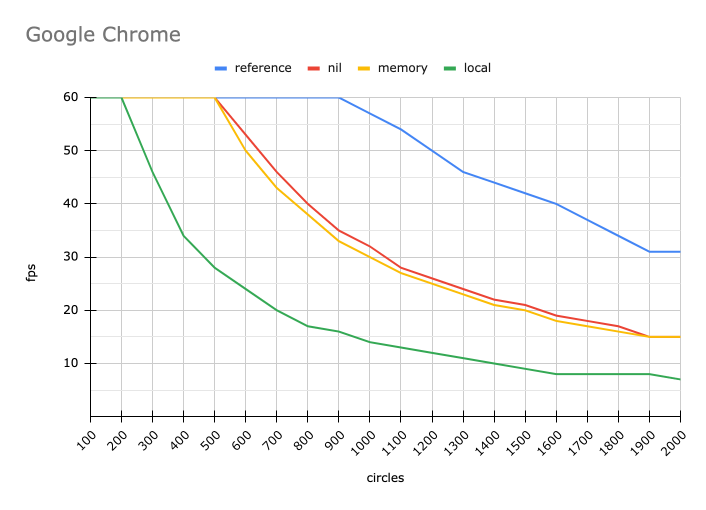
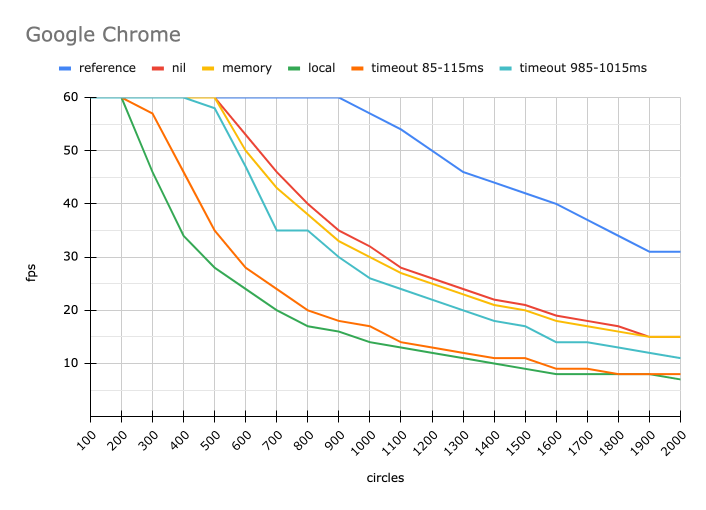
Add tests with timeout

diff --git a/src/model.ts b/src/model.ts
@@ -14,12 +14,14 @@ const NIL = /1|yes|true/i.test(import.meta.env.VITE_NIL);
 const MEMORY = /1|yes|true/i.test(import.meta.env.VITE_MEMORY);
 const LOCAL = /1|yes|true/i.test(import.meta.env.VITE_LOCAL);
 const SYNC = LOCAL && !/0|no|false/i.test(import.meta.env.VITE_SYNC);
+const TIMEOUT = (LOCAL && parseInt(import.meta.env.VITE_TIMEOUT)) || undefined;
 
 console.log(
   "🧳 mode:",
   NIL ? "nil" : MEMORY ? "memory" : LOCAL ? "local" : "reference"
 );
-if (LOCAL) console.log("⏱ sync:", SYNC);
+if (LOCAL) console.log("🔄 sync:", SYNC);
+if (LOCAL) console.log("⏱ timeout:", TIMEOUT);
 
 export type Dot = {
   x: number;
@@ -55,7 +57,11 @@ const generate = createEffect<
 
     // use `nil` adapter
     if (NIL) {
-      persist({ store: dot, key: `dot-${i}`, adapter: nil("nil") });
+      persist({
+        store: dot,
+        key: `dot-${i}`,
+        adapter: nil({ keyArea: "nil" }),
+      });
     }
 
     // use `memory` adapter
@@ -65,7 +71,12 @@ const generate = createEffect<
 
     // use `local` adapter
     else if (LOCAL) {
-      persistLocal({ store: dot, key: `dot-${i}`, sync: SYNC });
+      persistLocal({
+        store: dot,
+        key: `dot-${i}`,
+        sync: SYNC,
+        timeout: TIMEOUT ? TIMEOUT + Math.random() * 30 - 15 : undefined,
+      });
     }
   }
 });

diff --git a/README.md b/README.md
@@ -49,6 +49,20 @@ You can also run page with using `persist` with `local` adapter without syncroni
 pnpm local-nosync
 ```
 
+_(This feature of `effector-storage` is not released yet)_<br>
+Run page with using `persist` with `local` adapter with `timeout` (each circle's store state is persisted asynchronously in the `localStorage` with random timeout within 85-115ms):
+
+```
+pnpm local-timeout
+```
+
+_(This feature of `effector-storage` is not released yet)_<br>
+Or with random timeout within 985-1015ms:
+
+```
+pnpm local-big-timeout
+```
+
 ## Results
 
 On my MacBook Pro (13-inch, 2020)
@@ -61,82 +75,82 @@ I got the following results (highest average, ceil to integer):
 
 ### Google Chrome version 112.0.5615.137 (Official Build) (x86_64)
 
-| circles | reference | nil | memory | local |
-| ------- | --------- | --- | ------ | ----- |
-| 100     | 60        | 60  | 60     | 60    |
-| 200     | 60        | 60  | 60     | 60    |
-| 300     | 60        | 60  | 60     | 46    |
-| 400     | 60        | 60  | 60     | 34    |
-| 500     | 60        | 60  | 60     | 28    |
-| 600     | 60        | 53  | 50     | 24    |
-| 700     | 60        | 46  | 43     | 20    |
-| 800     | 60        | 40  | 38     | 17    |
-| 900     | 60        | 35  | 33     | 16    |
-| 1000    | 57        | 32  | 30     | 14    |
-| 1100    | 54        | 28  | 27     | 13    |
-| 1200    | 50        | 26  | 25     | 12    |
-| 1300    | 46        | 24  | 23     | 11    |
-| 1400    | 44        | 22  | 21     | 10    |
-| 1500    | 42        | 21  | 20     | 9     |
-| 1600    | 40        | 19  | 18     | 8     |
-| 1700    | 37        | 18  | 17     | 8     |
-| 1800    | 34        | 17  | 16     | 8     |
-| 1900    | 31        | 15  | 15     | 8     |
-| 2000    | 31        | 15  | 15     | 7     |
+| circles | reference | nil | memory | local | timeout 85-115ms | timeout 985-1015ms |
+| ------- | --------- | --- | ------ | ----- | ---------------- | ------------------ |
+| 100     | 60        | 60  | 60     | 60    | 60               | 60                 |
+| 200     | 60        | 60  | 60     | 60    | 60               | 60                 |
+| 300     | 60        | 60  | 60     | 46    | 57               | 60                 |
+| 400     | 60        | 60  | 60     | 34    | 46               | 60                 |
+| 500     | 60        | 60  | 60     | 28    | 35               | 58                 |
+| 600     | 60        | 53  | 50     | 24    | 28               | 47                 |
+| 700     | 60        | 46  | 43     | 20    | 24               | 35                 |
+| 800     | 60        | 40  | 38     | 17    | 20               | 35                 |
+| 900     | 60        | 35  | 33     | 16    | 18               | 30                 |
+| 1000    | 57        | 32  | 30     | 14    | 17               | 26                 |
+| 1100    | 54        | 28  | 27     | 13    | 14               | 24                 |
+| 1200    | 50        | 26  | 25     | 12    | 13               | 22                 |
+| 1300    | 46        | 24  | 23     | 11    | 12               | 20                 |
+| 1400    | 44        | 22  | 21     | 10    | 11               | 18                 |
+| 1500    | 42        | 21  | 20     | 9     | 11               | 17                 |
+| 1600    | 40        | 19  | 18     | 8     | 9                | 14                 |
+| 1700    | 37        | 18  | 17     | 8     | 9                | 14                 |
+| 1800    | 34        | 17  | 16     | 8     | 8                | 13                 |
+| 1900    | 31        | 15  | 15     | 8     | 8                | 12                 |
+| 2000    | 31        | 15  | 15     | 7     | 8                | 11                 |
 
 <img src="./screenshots/graph-chrome.png">
 
 ### Mozilla Firefox version 112.0.2 (64-bit)
 
-| circles | reference | nil | memory | local |
-| ------- | --------- | --- | ------ | ----- |
-| 100     | 60        | 60  | 60     | 60    |
-| 200     | 60        | 60  | 60     | 60    |
-| 300     | 60        | 60  | 60     | 50    |
-| 400     | 60        | 55  | 52     | 37    |
-| 500     | 60        | 47  | 41     | 30    |
-| 600     | 60        | 36  | 35     | 26    |
-| 700     | 60        | 30  | 30     | 22    |
-| 800     | 60        | 27  | 26     | 19    |
-| 900     | 60        | 24  | 23     | 17    |
-| 1000    | 60        | 21  | 21     | 15    |
-| 1100    | 60        | 19  | 19     | 13    |
-| 1200    | 60        | 17  | 17     | 13    |
-| 1300    | 60        | 16  | 16     | 11    |
-| 1400    | 60        | 15  | 15     | 11    |
-| 1500    | 60        | 14  | 14     | 10    |
-| 1600    | 60        | 13  | 13     | 9     |
-| 1700    | 60        | 12  | 12     | 9     |
-| 1800    | 60        | 12  | 11     | 8     |
-| 1900    | 60        | 11  | 11     | 7     |
-| 2000    | 60        | 10  | 10     | 7     |
+| circles | reference | nil | memory | local | timeout 85-115ms | timeout 985-1015ms |
+| ------- | --------- | --- | ------ | ----- | ---------------- | ------------------ |
+| 100     | 60        | 60  | 60     | 60    | 60               | 60                 |
+| 200     | 60        | 60  | 60     | 60    | 60               | 60                 |
+| 300     | 60        | 60  | 60     | 50    | 60               | 60                 |
+| 400     | 60        | 55  | 52     | 37    | 45               | 53                 |
+| 500     | 60        | 47  | 41     | 30    | 35               | 44                 |
+| 600     | 60        | 36  | 35     | 26    | 30               | 36                 |
+| 700     | 60        | 30  | 30     | 22    | 26               | 30                 |
+| 800     | 60        | 27  | 26     | 19    | 22               | 26                 |
+| 900     | 60        | 24  | 23     | 17    | 20               | 24                 |
+| 1000    | 60        | 21  | 21     | 15    | 17               | 21                 |
+| 1100    | 60        | 19  | 19     | 13    | 15               | 19                 |
+| 1200    | 60        | 17  | 17     | 13    | 13               | 17                 |
+| 1300    | 60        | 16  | 16     | 11    | 12               | 16                 |
+| 1400    | 60        | 15  | 15     | 11    | 12               | 15                 |
+| 1500    | 60        | 14  | 14     | 10    | 11               | 14                 |
+| 1600    | 60        | 13  | 13     | 9     | 10               | 13                 |
+| 1700    | 60        | 12  | 12     | 9     | 10               | 12                 |
+| 1800    | 60        | 12  | 11     | 8     | 10               | 11                 |
+| 1900    | 60        | 11  | 11     | 7     | 9                | 10                 |
+| 2000    | 60        | 10  | 10     | 7     | 8                | 10                 |
 
 <img src="./screenshots/graph-firefox.png">
 
 ### Safari version 16.4.1 (17615.1.26.101.10, 17615)
 
-| circles | reference | nil | memory | local |
-| ------- | --------- | --- | ------ | ----- |
-| 100     | 60        | 60  | 60     | 60    |
-| 200     | 60        | 51  | 50     | 45    |
-| 300     | 60        | 36  | 36     | 33    |
-| 400     | 60        | 28  | 28     | 25    |
-| 500     | 60        | 23  | 22     | 21    |
-| 600     | 60        | 19  | 19     | 17    |
-| 700     | 60        | 16  | 16     | 15    |
-| 800     | 60        | 15  | 15     | 13    |
-| 900     | 60        | 13  | 13     | 12    |
-| 1000    | 60        | 12  | 12     | 11    |
-| 1100    | 60        | 11  | 11     | 10    |
-| 1200    | 60        | 10  | 10     | 9     |
-| 1300    | 60        | 9   | 9      | 8     |
-| 1400    | 60        | 9   | 9      | 8     |
-| 1500    | 60        | 8   | 8      | 7     |
-| 1600    | 60        | 8   | 8      | 7     |
-| 1700    | 60        | 7   | 7      | 6     |
-| 1800    | 60        | 7   | 7      | 6     |
-| 1900    | 59        | 6   | 6      | 6     |
-| 2000    | 56        | 6   | 6      | 5     |
+| circles | reference | nil | memory | local | timeout 85-115ms | timeout 985-1015ms |
+| ------- | --------- | --- | ------ | ----- | ---------------- | ------------------ |
+| 100     | 60        | 60  | 60     | 60    | 60               | 60                 |
+| 200     | 60        | 51  | 50     | 45    | 46               | 45                 |
+| 300     | 60        | 36  | 36     | 33    | 31               | 34                 |
+| 400     | 60        | 28  | 28     | 25    | 23               | 24                 |
+| 500     | 60        | 23  | 22     | 21    | 19               | 20                 |
+| 600     | 60        | 19  | 19     | 17    | 16               | 16                 |
+| 700     | 60        | 16  | 16     | 15    | 14               | 16                 |
+| 800     | 60        | 15  | 15     | 13    | 13               | 13                 |
+| 900     | 60        | 13  | 13     | 12    | 11               | 12                 |
+| 1000    | 60        | 12  | 12     | 11    | 10               | 11                 |
+| 1100    | 60        | 11  | 11     | 10    | 9                | 10                 |
+| 1200    | 60        | 10  | 10     | 9     | 8                | 9                  |
+| 1300    | 60        | 9   | 9      | 8     | 7                | 8                  |
+| 1400    | 60        | 9   | 9      | 8     | 7                | 8                  |
+| 1500    | 60        | 8   | 8      | 7     | 7                | 7                  |
+| 1600    | 60        | 8   | 8      | 7     | 6                | 7                  |
+| 1700    | 60        | 7   | 7      | 6     | 6                | 6                  |
+| 1800    | 60        | 7   | 7      | 6     | 5                | 6                  |
+| 1900    | 59        | 6   | 6      | 6     | 5                | 5                  |
+| 2000    | 56        | 6   | 6      | 5     | 5                | 5                  |
 
 <img src="./screenshots/graph-safari.png">
 
